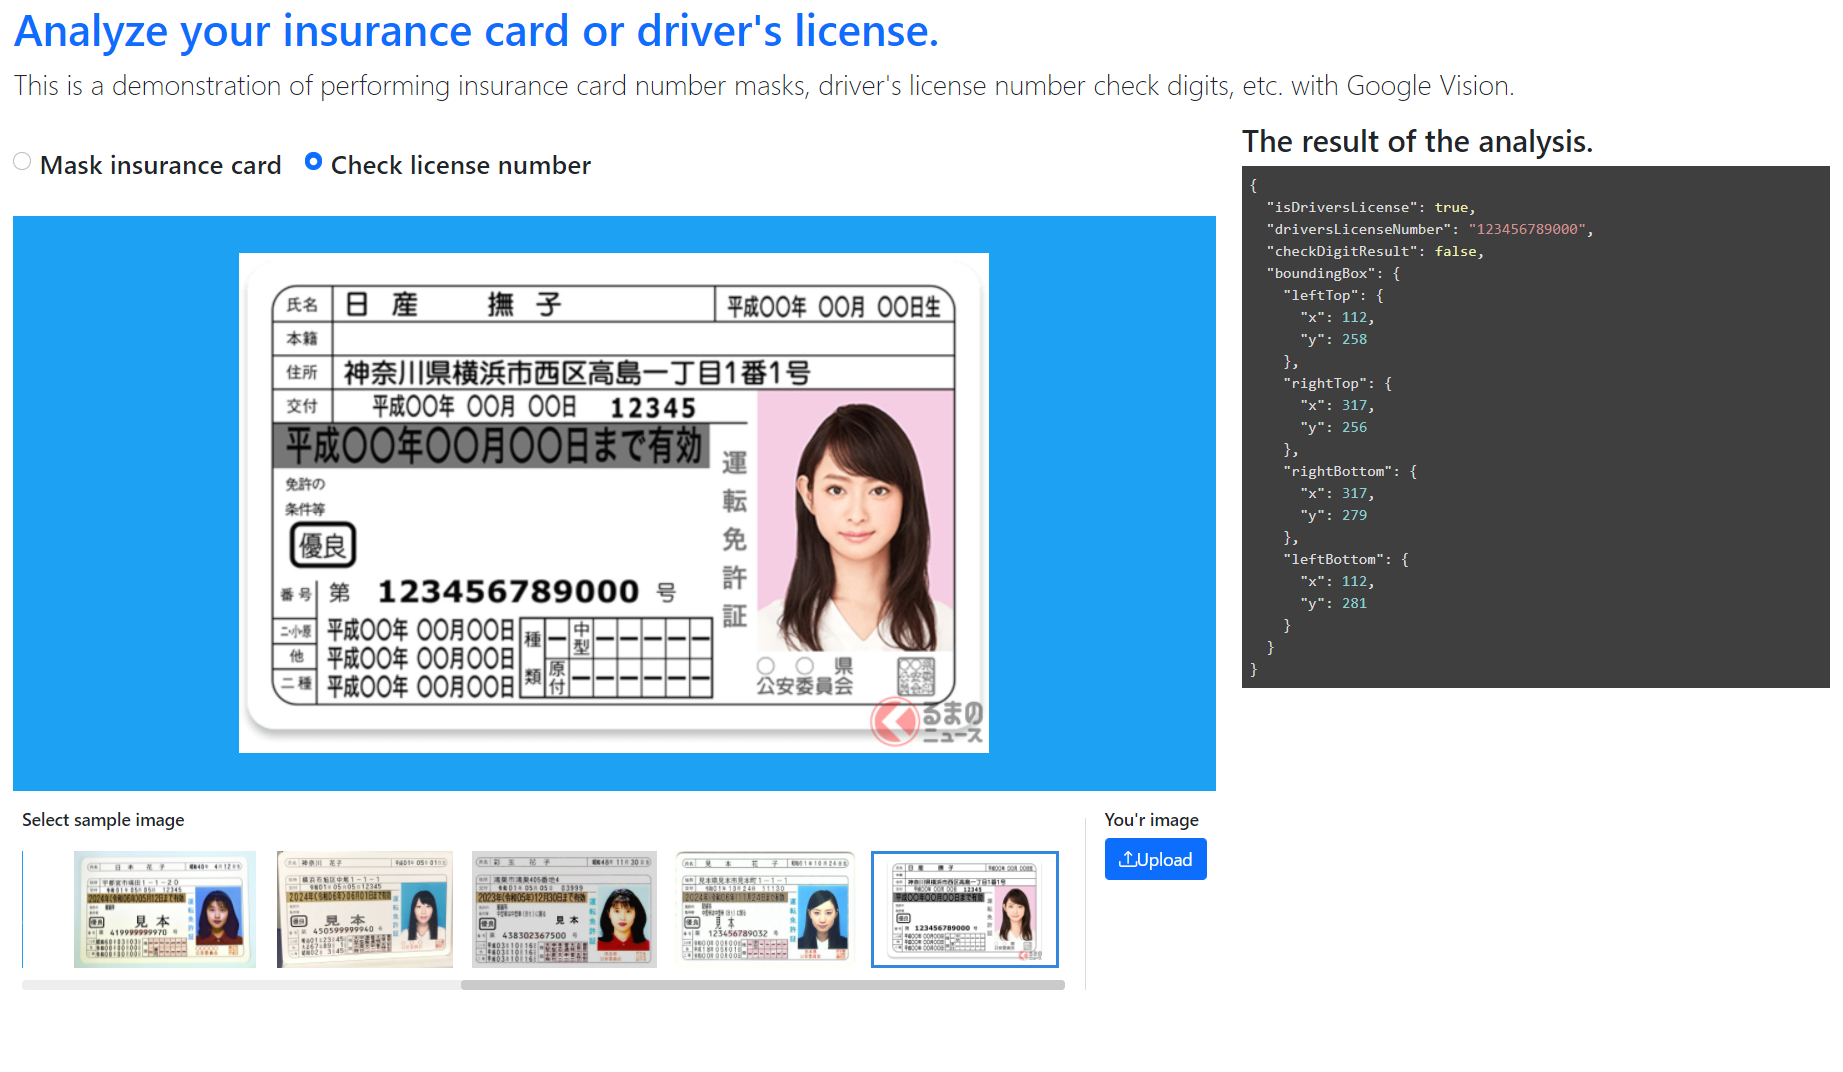
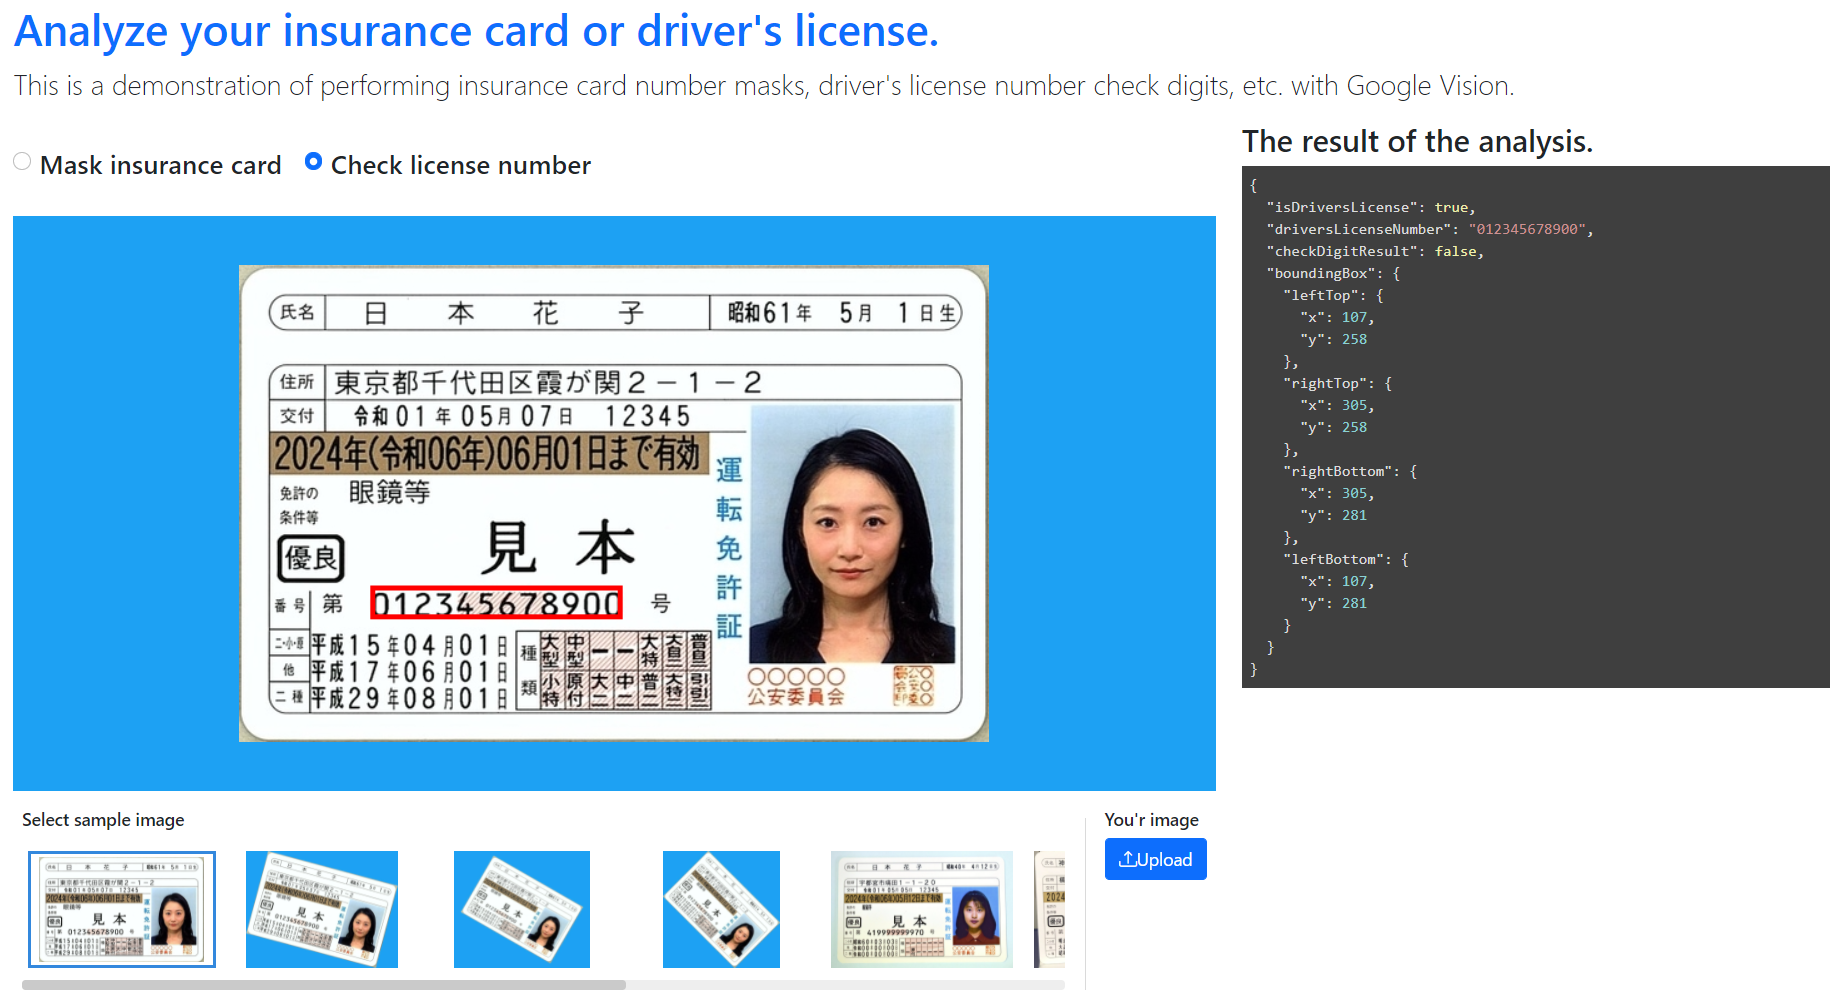
Draw a border box on the driver's license number in the demo.

Changed region(s): [[0.0, 0.124, 1.0, 0.992], [0.0, 0.0, 0.8351, 0.093]]

diff --git a/demo/index.js b/demo/index.js
@@ -34,6 +34,21 @@ import * as config from './config.js';
         console.log('data=', data);
         result.text(JSON.stringify(data, null, 2));
         hljs.highlightBlock(result.get(0));
+
+        // Draw the license number boundaries.
+        if (data.boundingBox) {
+          const {leftTop, rightTop, rightBottom, leftBottom} = data.boundingBox;
+          const ctx = canvas.get(0).getContext('2d');
+          ctx.beginPath();
+          ctx.moveTo(leftTop.x, leftTop.y);
+          ctx.lineTo(rightTop.x, rightTop.y);
+          ctx.lineTo(rightBottom.x, rightBottom.y);
+          ctx.lineTo(leftBottom.x, leftBottom.y);
+          ctx.closePath();
+          ctx.lineWidth = 4;
+          ctx.strokeStyle = 'red';
+          ctx.stroke();
+        }
       }
     } catch(e) {
       alert('An unexpected error has occurred');

diff --git a/README.md b/README.md
@@ -2,11 +2,11 @@
 
 This is an OCR demo application using Google Cloud Vision.  
 
-Insurance card number mask demo:  
-<img src="https://raw.githubusercontent.com/takuya-motoshima/vision-ocr/main/screencaps/drivers-license.png" width="500">
-
 Driver's license number check demo:  
-<img src="https://raw.githubusercontent.com/takuya-motoshima/vision-ocr/main/screencaps/health-insurance-card.png" width="500">
+<img src="https://raw.githubusercontent.com/takuya-motoshima/vision-ocr/main/screencaps/drivers-license.png" width="800">
+
+Insurance card number mask demo:  
+<img src="https://raw.githubusercontent.com/takuya-motoshima/vision-ocr/main/screencaps/health-insurance-card.png" width="800">
 
 ## Getting Started
 
